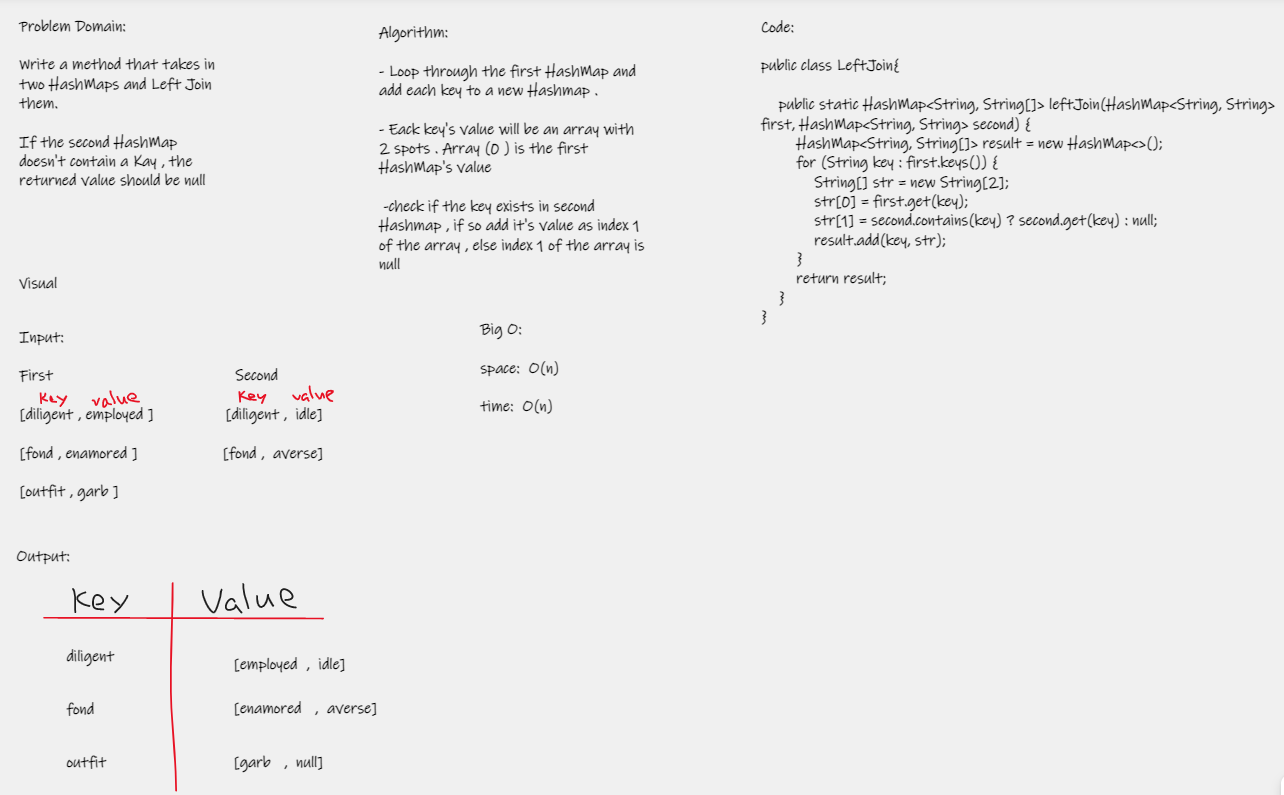
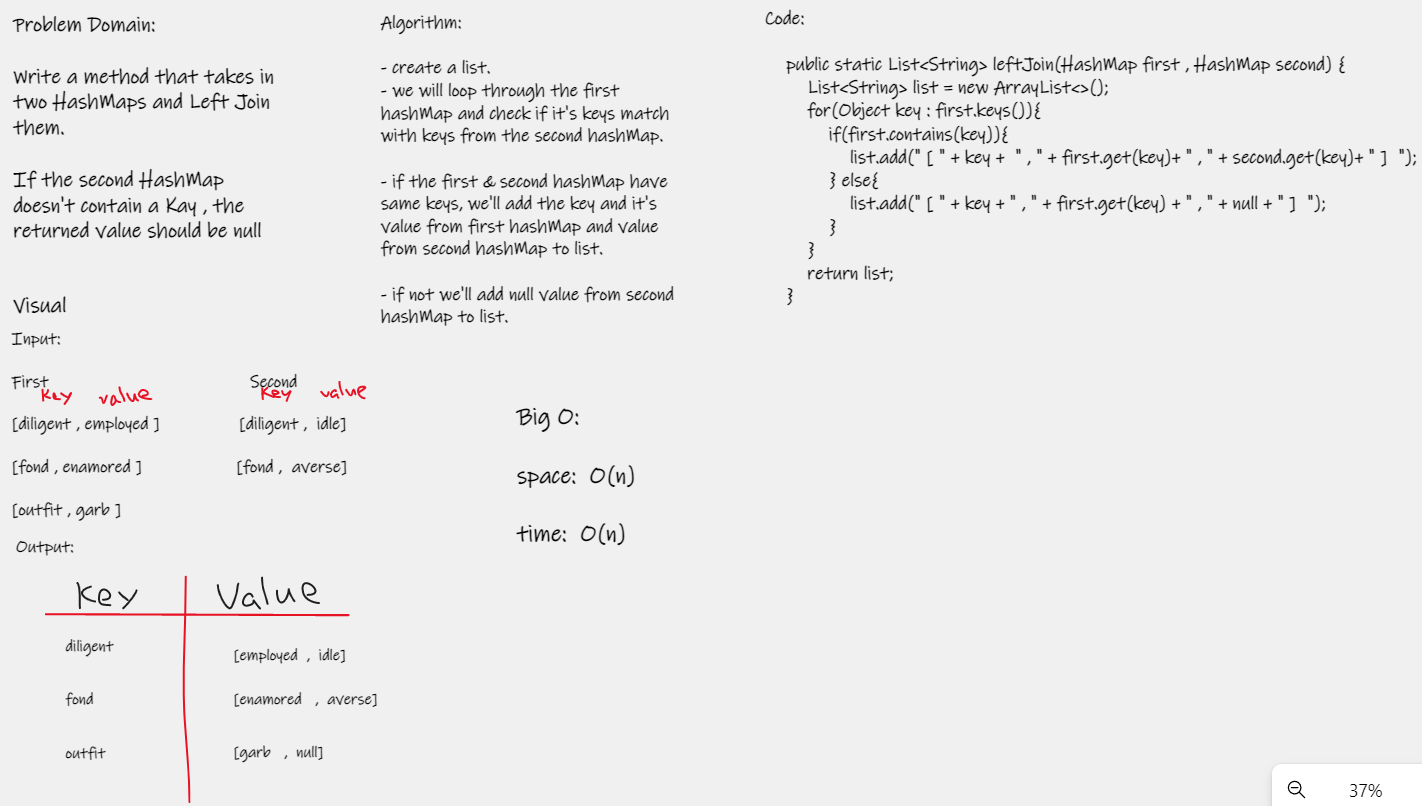
code33

diff --git a/hashtable/app/src/test/java/hashtable/LeftJoinTest.java b/hashtable/app/src/test/java/hashtable/LeftJoinTest.java
@@ -3,12 +3,18 @@ package hashtable;
 import hashtable.structure.HashMap;
 import org.junit.Test;
 
+import java.util.ArrayList;
+import java.util.List;
+
 import static org.junit.Assert.*;
 
 public class LeftJoinTest{
 
     @Test
     public void testLeftJoin() {
+
+        LeftJoin leftJoin = new LeftJoin();
+
         HashMap<String, String> first = new HashMap<>();
         first.add("fond", "enamored");
         first.add("wrath", "anger");
@@ -23,21 +29,14 @@ public class LeftJoinTest{
         second.add("guide", "follow");
         second.add("flow", "jam");
 
-        String[] array1 = {"enamored", "averse"};
-        String[] array2 = {"anger", "delight"};
-        String[] array3 = {"employed", "idle"};
-        String[] array4 = {"garb", null};
-        String[] array5 = {"usher", "follow"};
+        List<String> list = new ArrayList<>();
 
-        HashMap<String, String[]> third = new HashMap<>();
-        third = LeftJoin.leftJoin(first, second);
-        assertEquals(5, third.getSize());
-        assertFalse(third.contains("flow"));
-        assertArrayEquals(array1, third.get("fond"));
-        assertArrayEquals(array2, third.get("wrath"));
-        assertArrayEquals(array3, third.get("diligent"));
-        assertArrayEquals(array4, third.get("outfit"));
-        assertArrayEquals(array5, third.get("guide"));
+        list.add(" [ " + "diligent" +  " , " + "employed"+ " , " + "idle"+ " ]  ");
+        list.add(" [ " + "wrath" +  " , " + "anger"+ " , " + "delight"+ " ]  ");
+        list.add(" [ " + "fond" +  " , " + "enamored"+ " , " + "averse"+ " ]  ");
+        list.add(" [ " + "guide" +  " , " + "usher"+ " , " + "follow"+ " ]  ");
+        list.add(" [ " + "outfit" +  " , " + "garb"+ " , " + "null"+ " ]  ");
+        assertEquals(list,leftJoin.leftJoin(first,second));
     }
 
 }

diff --git a/hashtable/app/src/main/java/hashtable/LeftJoin.java b/hashtable/app/src/main/java/hashtable/LeftJoin.java
@@ -2,16 +2,20 @@ package hashtable;
 
 import hashtable.structure.HashMap;
 
+import java.util.ArrayList;
+import java.util.List;
+
 public class LeftJoin{
 
-    public static HashMap<String, String[]> leftJoin(HashMap<String, String> first, HashMap<String, String> second) {
-        HashMap<String, String[]> result = new HashMap<>();
-        for (String key : first.keys()) {
-            String[] str = new String[2];
-            str[0] = first.get(key);
-            str[1] = second.contains(key) ? second.get(key) : null;
-            result.add(key, str);
+    public static List<String> leftJoin(HashMap first , HashMap second) {
+        List<String> list = new ArrayList<>();
+        for(Object key : first.keys()){
+            if(first.contains(key)){
+                list.add(" [ " + key +  " , " + first.get(key)+ " , " + second.get(key)+ " ]  ");
+            } else{
+                list.add(" [ " + key + " , " + first.get(key) + " , " + null + " ]  ");
+            }
         }
-        return result;
+        return list;
     }
 }
